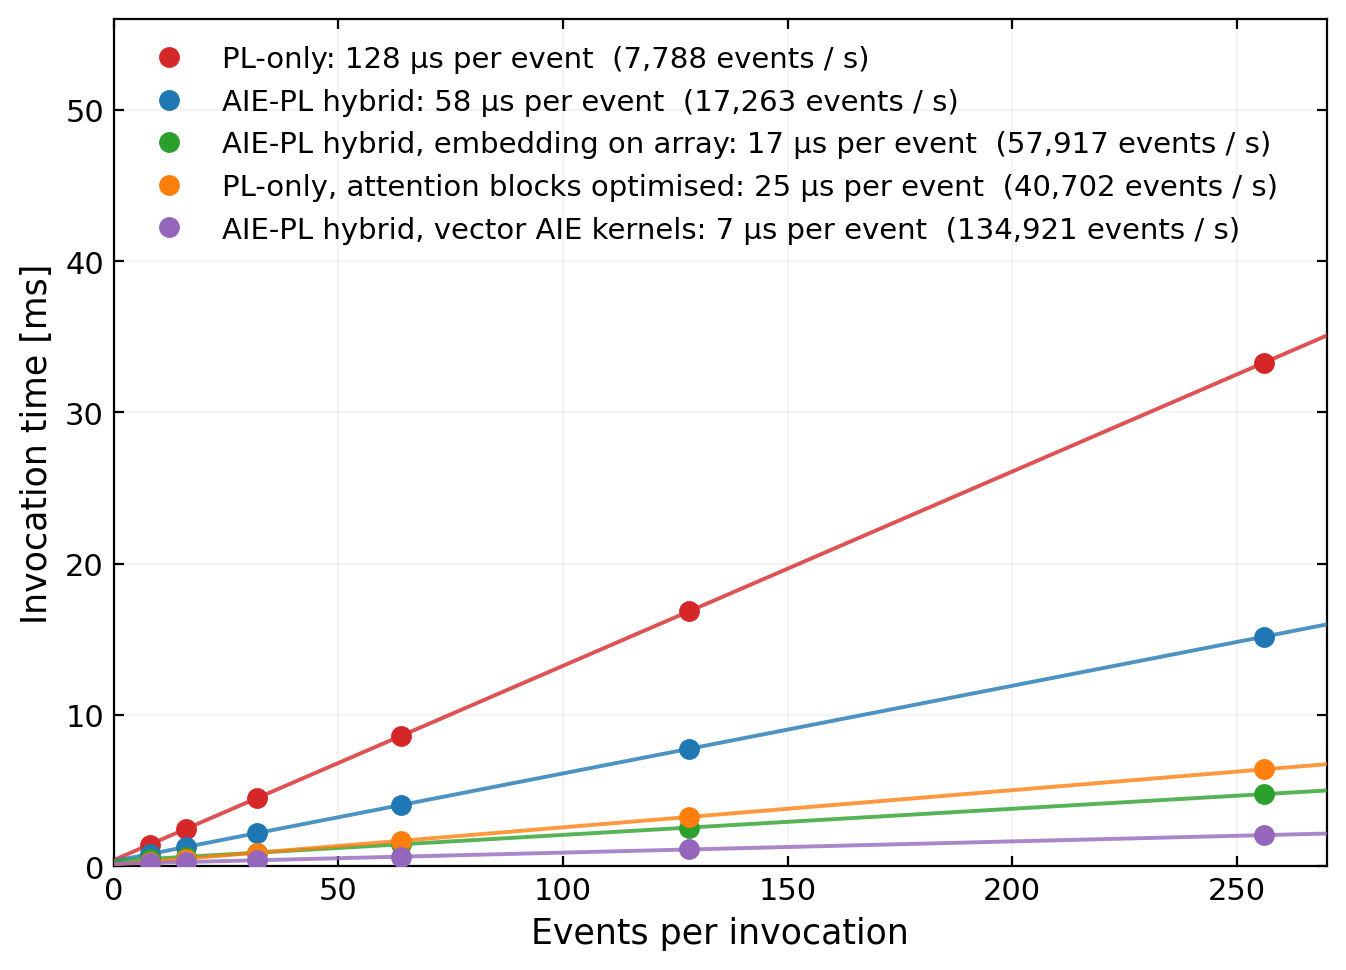
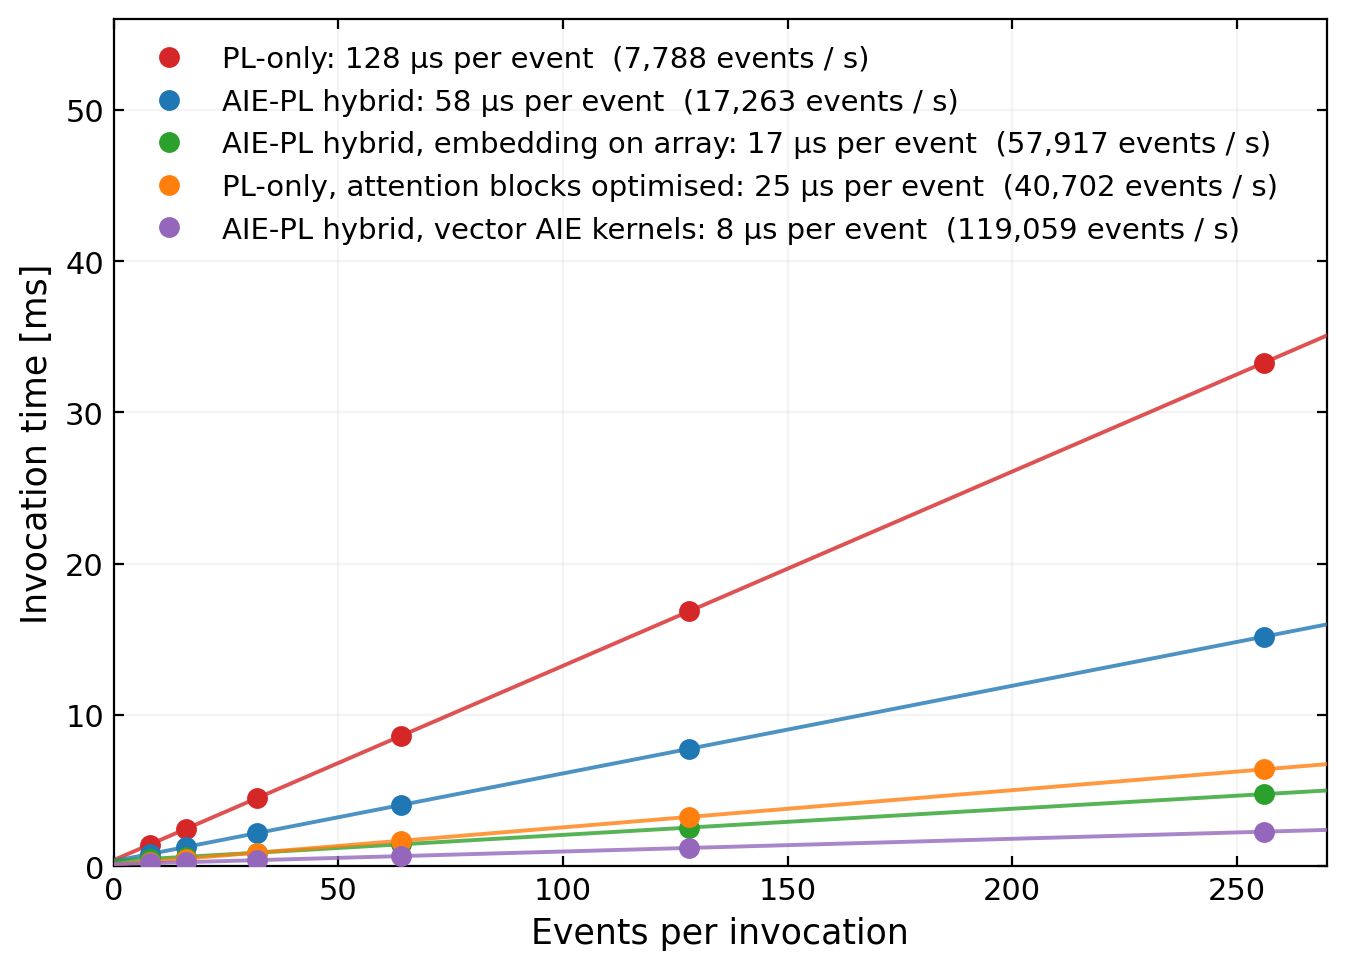
perf: whole ABC stack on the array, one event 134 us (114 direct), 8.4 us/event, scores identical to v3

Changed region(s): [[0.3744, 0.8351, 0.9985, 0.8969], [0.7177, 0.2165, 0.8113, 0.2474], [0.5305, 0.2165, 0.5617, 0.2474]]

diff --git a/scripts/make_latency_and_stage_charts.py b/scripts/make_latency_and_stage_charts.py
@@ -46,7 +46,9 @@ COL = {"PL-only": PL_C, "AIE-PL hybrid": AIE_C, "AIE-PL hybrid, embedding on arr
 #   Hybrid smvec: every AI Engine kernel moves its windows 16 lanes at a time and
 #   the object head post uses an 8-lane float softmax (11.3 us/event, one event
 #   181 us, 160 us with direct-register launch). Hybrid v3 adds single-pass
-#   fabric stages: 7.4 us/event, one event 159 us (137 direct). AUC 0.9825 / 0.9825.
+#   fabric stages: 7.4 us/event, one event 159 us (137 direct). The 'chain' image
+#   puts the whole ABC stack on the array: 8.4 us/event, one event 134 us (114
+#   direct), scores identical to v3. AUC 0.9825 / 0.9825.
 def _csv(path, kernel):
     pts = []
     for l in open(path):
@@ -55,7 +57,7 @@ def _csv(path, kernel):
     return pts
 _F = "/home/snehadri/repos/aie-unsupervised-search/figs/"
 SWEEP["PL-only, attention blocks optimised"] = _csv(_F + "latency_sweep_pl_t2i.csv", "pl_stream_top")
-SWEEP["AIE-PL hybrid, vector AIE kernels"] = _csv(_F + "latency_sweep_hybrid_v3.csv", "aie_stream_top")
+SWEEP["AIE-PL hybrid, vector AIE kernels"] = _csv(_F + "latency_sweep_hybrid_chain.csv", "aie_stream_top")
 NMIN = 8
 
 # ---- (b),(c) per-stage costs, SAME rows in both panels ------------------------
